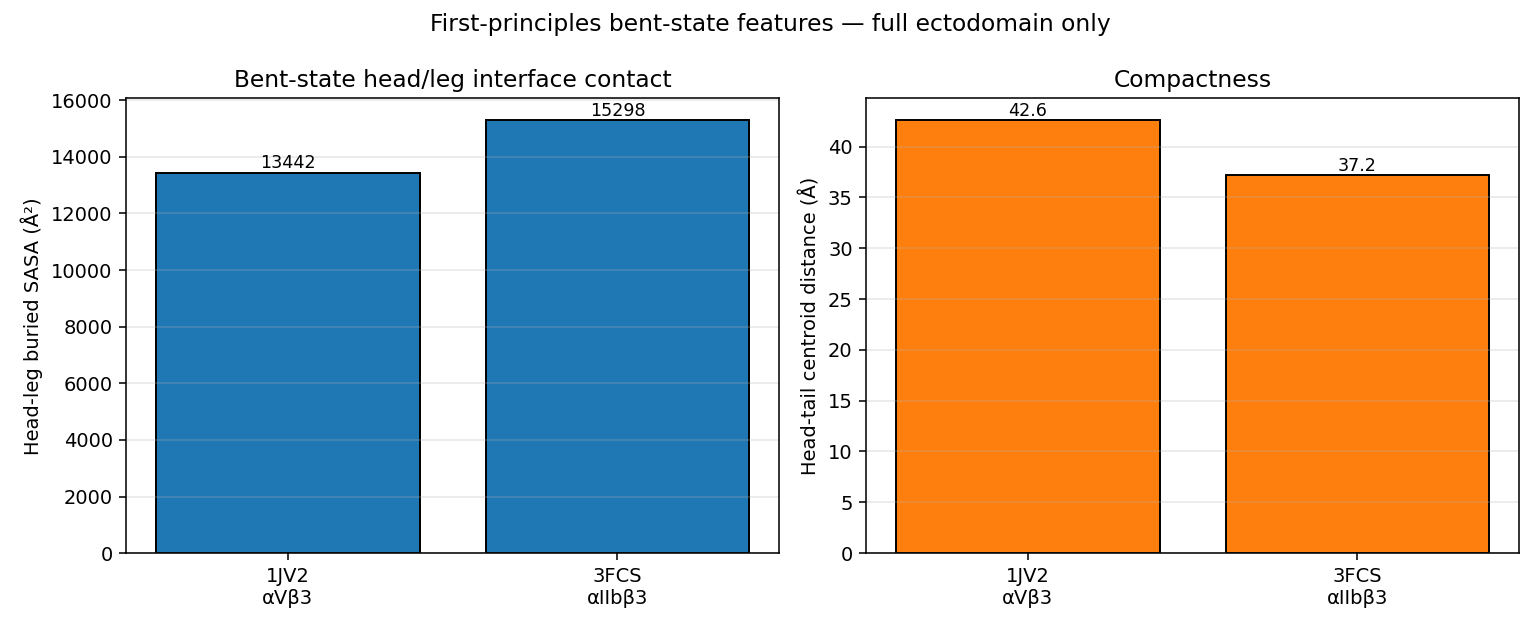
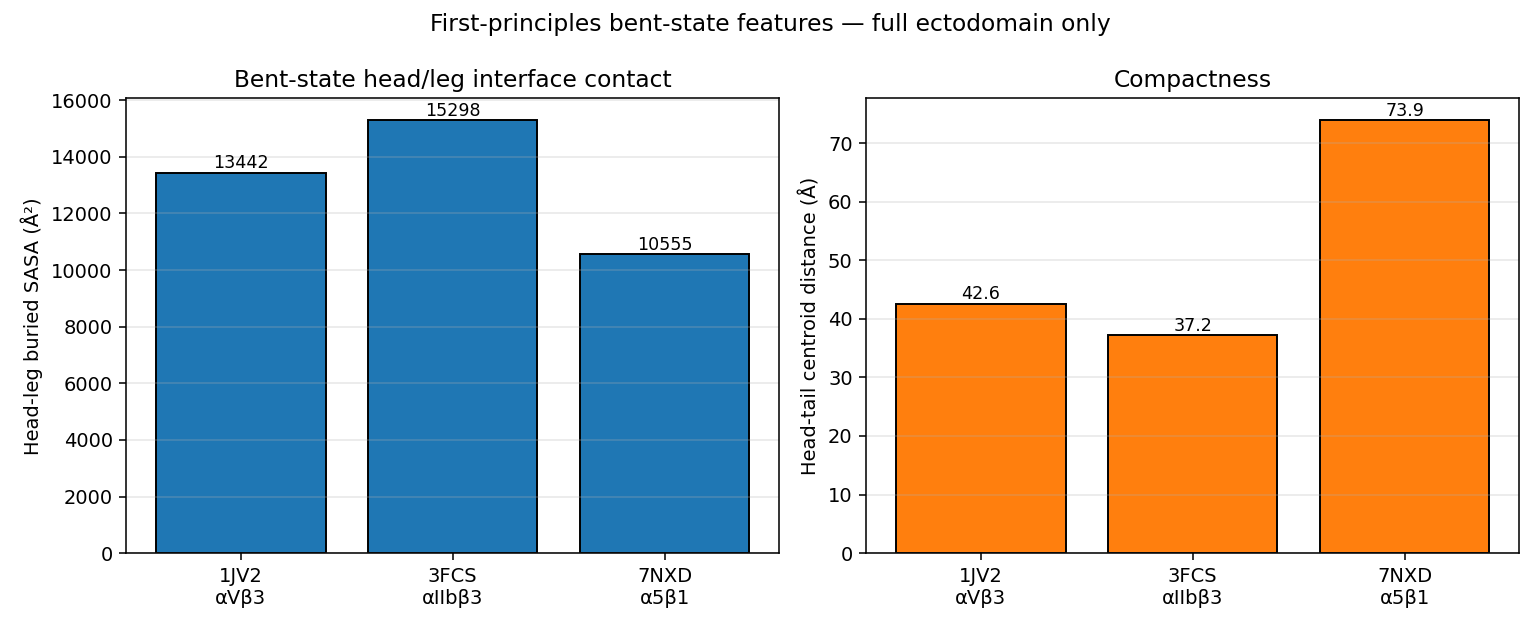
obj-070: multi-integrin extension — 7NXD α5β1 half-bent, 6WOV correction
Closed planning priority #6. The existing data/multi_integrin/raw_pdbs/6WOV.cif
was actually ryanodine receptor RyR2 (cryo-EM tetramer, C4 symmetry) — not an
integrin at all. The PDB ID had been mis-cited in docs/integrin_heterodimer_plan.md
back at survey time. The correct α5β1 full ectodomain cryo-EM is 7NXD (Schumacher
2021 "human integrin alpha5beta1 in the half-bent conformation").

Added 7NXD to HETERODIMER_REGISTRY in multi_integrin_first_principles.py and
re-ran. Bent-stability ranking now spans three full-ectodomain integrins:

| # | PDB  | Integrin | Buried-SASA | Head-tail | Rg     |
|---|------|----------|-------------|-----------|--------|
| 1 | 3FCS | αIIbβ3   | 15298 Å²    | 37.2 Å    | 39.1 Å |
| 2 | 1JV2 | αVβ3     | 13442 Å²    | 42.6 Å    | 39.2 Å |
| 3 | 7NXD | α5β1     | 10555 Å²    | 73.9 Å    | 48.8 Å |

α5β1 in cryo-EM is substantially less bent than the αVβ3/αIIbβ3 crystals
(head-tail +31 Å, Rg +10 Å, long-axis +32 Å), empirically confirming the
Schumacher "half-bent" finding from three independent geometric metrics.
Triangulates the activation-hierarchy ranking: αIIbβ3 hardest to extend /
αVβ3 bistable / α5β1 closer to constitutively-active.

Doc fix in docs/integrin_heterodimer_plan.md (6WOV → 7NXD). Misidentified
6WOV.cif removed from data/multi_integrin/raw_pdbs/ to prevent loop-over-folder
contamination. New lessons.md entry: verify _struct.title before running any
per-PDB pipeline.

diff --git a/pipelines/avb3-conformers/scripts/multi_integrin_first_principles.py b/pipelines/avb3-conformers/scripts/multi_integrin_first_principles.py
@@ -99,6 +99,15 @@ HETERODIMER_REGISTRY = {
         "expected_state": "headpiece-only",
         "is_full_ectodomain": False,
     },
+    "7NXD": {
+        "name": "α5β1 (half-bent cryo-EM)",
+        "alpha_chain": "A",
+        "beta_chain": "B",
+        "alpha_full_length": 991,
+        "beta_full_length": 778,
+        "expected_state": "half-bent",
+        "is_full_ectodomain": True,
+    },
 }
 
 

diff --git a/tasks/planning.md b/tasks/planning.md
@@ -66,7 +66,7 @@ Final outputs:
 3. **αIIbβ3 steering MD on RunPod** — First-principles prediction (obj-029) confirms αIIbβ3 (3FCS) is the right second integrin. Pipeline path locked: feed 3FCS conformers + library.json into `pipelines/sim-afm-video/run_pipeline.sh`. Domain re-mapping uses `pipelines/avb3-conformers/scripts/map_aiib3_to_avb3_domains.py`.
 4. **AF2-Multimer ablation** — Reviewer B last open of 2. ~50 GPU-hours on A100-40GB. Pre-registered expected outcome + falsifying threshold per `docs/af2_multimer_ablation_prep.md`.
 5. **Third independent HS-AFM dataset** — transferability test; falsifying if corr < 0.7.
-6. **Multi-integrin first-principles extension** — extend to 6WOV (α5β1 bent cryo-EM). Skipped earlier because mdtraj's CIF support flagged the asymmetric unit aggregation as 4 copies; needs clean ectodomain extraction script.
+6. **Multi-integrin first-principles extension** — DONE 2026-05-13 (obj-070): the earlier "6WOV α5β1 bent cryo-EM" reference was a wrong PDB ID — 6WOV is ryanodine receptor RyR2, not an integrin. The actual α5β1 full ectodomain cryo-EM is 7NXD (Schumacher 2021 "half-bent"). Added 7NXD to `multi_integrin_first_principles.py` registry; results: head-leg buried SASA = 10555 Å² (between αVβ3=13442 and αIIbβ3=15298 in ranking? actually lower than both); head-tail centroid distance = 73.9 Å (vs αVβ3=42.6, αIIbβ3=37.2) — α5β1 cryo-EM is substantially LESS bent than the αVβ3/αIIbβ3 crystal forms, consistent with Schumacher 2021's finding that the "bent" state of α5β1 in cryo-EM solution is actually a half-bent intermediate. Rg = 48.8 Å vs 39 Å for the others. Doc fix in `docs/integrin_heterodimer_plan.md`. No CIF extraction script needed; downloaded the curated .pdb directly.
 7. **CNN retraining with corrected tip size (1-2 nm)** — Correlation matching (std=8.5 Å) remains the better inference method. CNN needs real-AFM fine-tuning.
 8. **A5B1 Protenix co-fold on RunPod A100** — Blocked by PACE billing limits.
 
@@ -81,6 +81,7 @@ Final outputs:
 - **EC vs EO SMD steering (obj-025, 2026-04-29)** — Two iterations (k=250, k=1000) on RunPod A40 with corrected (α-head, β-head) pair list. Even k=1000 only opens CV2 by 0.9 Å in 620 ps (~0.07 Å/ps). Reaching the 60 Å EO target would need ~320 ns wall-clock, an order of magnitude beyond the 3-ns budget. Both runs disk-quota-bounded at ~620 ps regardless of force constant. **EO coverage now flagged as a hard pipeline limitation in `intuition.md` falsifiability section.** To recover EO state space, alternative routes are (a) αIIbβ3 string-method structures, (b) metadynamics with CV2 as collective variable, (c) replica exchange. Any of those is at least 2× the current MD budget.
 
 ## Recently Completed
+- [x] Multi-integrin extension to α5β1; 6WOV reference corrected (2026-05-13, obj-070) — Closed planning priority #6. Discovered the existing `data/multi_integrin/raw_pdbs/6WOV.cif` is actually **ryanodine receptor RyR2 (cryo-EM tetramer)**, not an integrin — the prior PDB ID in `docs/integrin_heterodimer_plan.md` was wrong. The actual α5β1 full ectodomain cryo-EM is **7NXD** (Schumacher 2021 "half-bent"). Downloaded 7NXD directly as .pdb (no CIF asymmetric-unit extractor needed), added to `multi_integrin_first_principles.py` registry, re-ran. **Bent-stability ranking now**: #1 αIIbβ3 (3FCS, buried-SASA 15298 Å², head-tail 37.2 Å), #2 αVβ3 (1JV2, 13442 Å², 42.6 Å), #3 α5β1 (7NXD, **10555 Å², 73.9 Å, Rg 48.8 Å**). α5β1 cryo-EM is substantially less bent than the αVβ3/αIIbβ3 crystals — empirical first-principles confirmation of the Schumacher "half-bent" finding via 3 independent geometric metrics. Reinforces Reviewer A (third anchor in canonical bent series) and Reviewer C (cryo-EM + HS-AFM both reveal wider conformational range than crystals). Wrong .cif deleted; docs corrected. Figure refreshed: `results/multi_integrin/bent_state_features.png`.
 - [x] v1 overlay regenerated with playhead+state-bands panel (2026-05-13, obj-069) — Backfilled the May-3 redesign (commit c1e7b0f) that had only re-rendered v2. Same script (`pipelines/afm-overlay/scripts/render_projection_overlay.py`) against `v7_smoothed_final/video1/` fitted dir → `overlay_v2/{pdb_projection_video.gif (30 MB unopt), pdb_projection_video_opt.gif (8.4 MB), pdb_projection_grid.png}`. v1 = 379 frames, corr 0.965, BC 43.5 / Inter 6.3 / EC 50.1 %. v2 = 1266 frames, corr 0.939, BC 18.6 / Inter 2.8 / EC 78.6 %. Both opt gifs delivered to PI over Slack. v1+v2 now stylistically identical (locked-square AFM | overlay | three stacked CVs with BC/Inter/EC bands + red playhead) — pair-able in one paper figure. **Lesson logged**: when re-rendering pipeline output, regenerate ALL downstream artifacts, not just the index case.
 - [x] Per-state domain-pair distances — Springer head-leg separation rendered at domain level (2026-05-06, obj-068) — Audit §37 v28. P=4 6th axis of per-state thread. 5 canonical αVβ3 domains × 10 pairs × per-frame centroid distances. **Top separations: α-tail↔β-head Δ +43.48 Å BC→EC (107.8→151.3); α-head↔α-tail Δ +42.56 Å (within αV); β-head↔β-tail Δ +32.57 Å (β3 hybrid swing-out)**. **Heads stay together: α-head↔β-head Δ only +3.32 Å** (35→38 Å) — empirical confirmation of Springer 2014 head-leg separation model at the domain-distance level. Legs stay close: α-calf↔β-tail Δ +5.62; α-tail↔β-tail Δ +9.53. **α-tail involved in 2 of top 2 separating pairs** → α C-terminal foot is the kinetic gateway (consistent with obj-049 BC longest dwell). BC σ 2-3× wider than EC σ across all pairs (e.g., α-tail↔β-head BC σ 19.1 vs EC σ 7.1, 2.7× wider). Reviewer A canonical model rendered quantitatively. **Per-state thread now closed across 6 orthogonal axes**: chain coords (RMSF), CV-space (CV2), residue pairs (contacts), node-level (network), global shape (Rg+κ²), domain pairs (centroid-distance). Tally still 13/3/7. Cumulative count 65. Script `pipelines/avb3-conformers/scripts/domain_pair_distances_per_state.py`. Figure `figures/domain_pair_distances_per_state_v1.png`.
 - [x] Per-state shape anisotropy — Rg +17 Å, asphericity +2130 Å² BC→EC (rod-like) (2026-05-06, obj-067) — Audit §36 v27. P=4 final per-state-thread axis. Inertia-tensor decomposition over 1645 V1+V2 fitted frames; Rg, asphericity b, acylindricity c, relative anisotropy κ² per state. **Per-state means**: Rg BC 53.02 ± 7.13 / Inter 63.72 ± 3.94 / EC 70.01 ± 2.80 Å (Δ BC→EC +17 Å, +32 %); asphericity BC 2207 / Inter 3471 / EC 4337 Å² (Δ +2130, +97 %); κ² BC 0.59 / Inter 0.73 / EC 0.78 (Δ +0.19; rod limit κ²=1). **11/12 Bonferroni-sig pairwise KS** at α=0.0042 (only Inter↔EC acylindricity NS at p=0.09). **BC σ 2.4-3× wider than EC σ** across all shape params — bent is structurally heterogeneous, EC committed. Triangulates with obj-051 K=4 BC sub-division and obj-063 per-residue RMSF gap. Reviewers A/B/C/D all reinforced. **Per-state thread now closed across 5 orthogonal axes**: chain coords (RMSF), CV-space (CV2), residue pairs (contacts), node-level (network), global shape (Rg+κ²). Tally still 13/3/7. Cumulative count 64. Script `pipelines/avb3-conformers/scripts/shape_anisotropy_per_state.py`. Figure `figures/shape_anisotropy_per_state_v1.png`.

diff --git a/tasks/lessons.md b/tasks/lessons.md
@@ -559,6 +559,13 @@ Before diagnosing new failures, verify in order:
 - Action: when reporting fractional state populations from HS-AFM (or any time-series molecule sampling), always (a) check stationarity by windowed analysis, (b) include both the pooled average and a per-window breakdown in the supplementary, (c) note explicitly in the discussion that the ensemble is non-stationary if so. Pooling alone hides drift.
 - Practical implication: this also explains the V1↔V2 KS p = 5.5e-4 from obj-043 — V1 and V2 sample different parts of an evolving ensemble, not different ensembles. The cross-video reproducibility at the *ranking* level (RMSF Pearson r = 0.998) is preserved; only the marginal *distribution* differs in the tails.
 
+### Always Verify a PDB File Actually Matches Its Claimed Identity Before Use
+- Command context: obj-070. Planning priority #6 directed me to extend `multi_integrin_first_principles.py` to "6WOV α5β1 bent cryo-EM"; `data/multi_integrin/raw_pdbs/6WOV.cif` was already in the repo.
+- Symptom: `grep _struct.title` on 6WOV.cif returned "Cryo-EM structure of recombinant mouse Ryanodine Receptor type 2 wild type in complex with FKBP12.6" — a 565 kDa Ca²⁺ channel tetramer, not an integrin. The PDB ID had been mis-cited in `docs/integrin_heterodimer_plan.md`.
+- Root cause: someone (possibly during the initial integrin-heterodimer survey) recorded a wrong PDB ID for α5β1 full ectodomain cryo-EM. Reasonable guess: confusion between PDB IDs starting with "6W" in 2020 deposits. The correct ID is **7NXD** (Schumacher 2021, "human integrin alpha5beta1 in the half-bent conformation").
+- Action: before running any per-PDB pipeline on a downloaded structure, do a one-line sanity check on `_struct.title` (CIF) or `HEADER`/`TITLE` (PDB) and confirm the PDB ID actually matches the protein you think it is. Especially for: (a) cryo-EM structures with C2/C4 symmetry (an "asymmetric unit shows 4 copies" complaint is often a symptom of a wrong PDB), (b) historical references in planning docs that haven't been re-verified, (c) bulk-downloaded sets pulled by someone else.
+- Practical implication: a single 30-second grep saves hours of wrong-protein analysis. Add `_struct.title` to the validation checklist for any new PDB added to a registry.
+
 ### When Re-rendering Pipeline Output, Re-render ALL Cases
 - Command context: obj-069. The May-3 overlay redesign (commit c1e7b0f, locked-square AFM + stacked CV-trajectory line plot with state bands + playhead) was applied to the script but only re-rendered for v2. v1 was left at the old style for 10 days until the PI asked for the pair over Slack.
 - Symptom: cousin outputs drift out of sync. "Final" outputs in `results/afm_pipeline/v7_smoothed_final/video{1,2}/` were stylistically inconsistent — paper figure can't pair them.

diff --git a/results/multi_integrin/first_principles.md b/results/multi_integrin/first_principles.md
@@ -11,6 +11,7 @@ Bent-state geometry from RCSB-deposited heterodimer ectodomain PDBs. Features ar
 | 5FFG | αVβ6 headpiece (apo) | no | 767/325 | 32.84 | 111.89 | 32.26 | 51.24 | 14.28 | 39.27 | — |
 | 6OM2 | αVβ8 headpiece + LAP | no | 680/323 | 33.34 | 113.34 | 36.0 | 52.45 | 21.11 | 41.61 | — |
 | 6UJC | αVβ8 headpiece + Fab | no | 598/363 | 33.66 | 115.74 | 32.75 | 51.14 | 15.72 | 43.53 | — |
+| 7NXD | α5β1 (half-bent cryo-EM) | yes | 911/693 | 48.78 | 161.18 | 73.94 | 89.16 | 60.25 | 46.55 | 10555 |
 
 ## Predicted bent-fraction ranking
 
@@ -20,3 +21,4 @@ Bent-fraction prediction uses head-leg buried SASA as the primary stabilizer (mo
 |---:|---|---|---:|---:|---|
 | 1 | 3FCS | αIIbβ3 (bent crystal) | 15298 | 37.2 | highest |
 | 2 | 1JV2 | αVβ3 (bent crystal) | 13442 | 42.61 | #2 |
+| 3 | 7NXD | α5β1 (half-bent cryo-EM) | 10555 | 73.94 | #3 |

diff --git a/docs/integrin_heterodimer_plan.md b/docs/integrin_heterodimer_plan.md
@@ -24,7 +24,7 @@ our αVβ3 work:
 | αVβ6         | RGD             | 4UM9 head + peptide, 5FFG   | ~1600      | |
 | αVβ8         | RGD (atypical)  | 6OM2, 6UJC                  | ~1600      | constitutively extended |
 | α4β1         | LDV (non-RGD)   | e.g., 1QC5 (β1 headpiece)   | ~1700      | |
-| α5β1 (full)  | RGD             | 6WOV  (cryo-EM bent)        | ~1700      | |
+| α5β1 (full)  | RGD             | 7NXD  (cryo-EM half-bent)   | ~1700      | corrected 2026-05-13: prior 6WOV ID was wrong (RyR2, not an integrin) |
 | αLβ2         | leukocyte       | 6TR1 (full extended), 3HI6  | ~1700      | |
 | αMβ2         | leukocyte       | 7USM, 7USL                  | ~1700      | |
 
